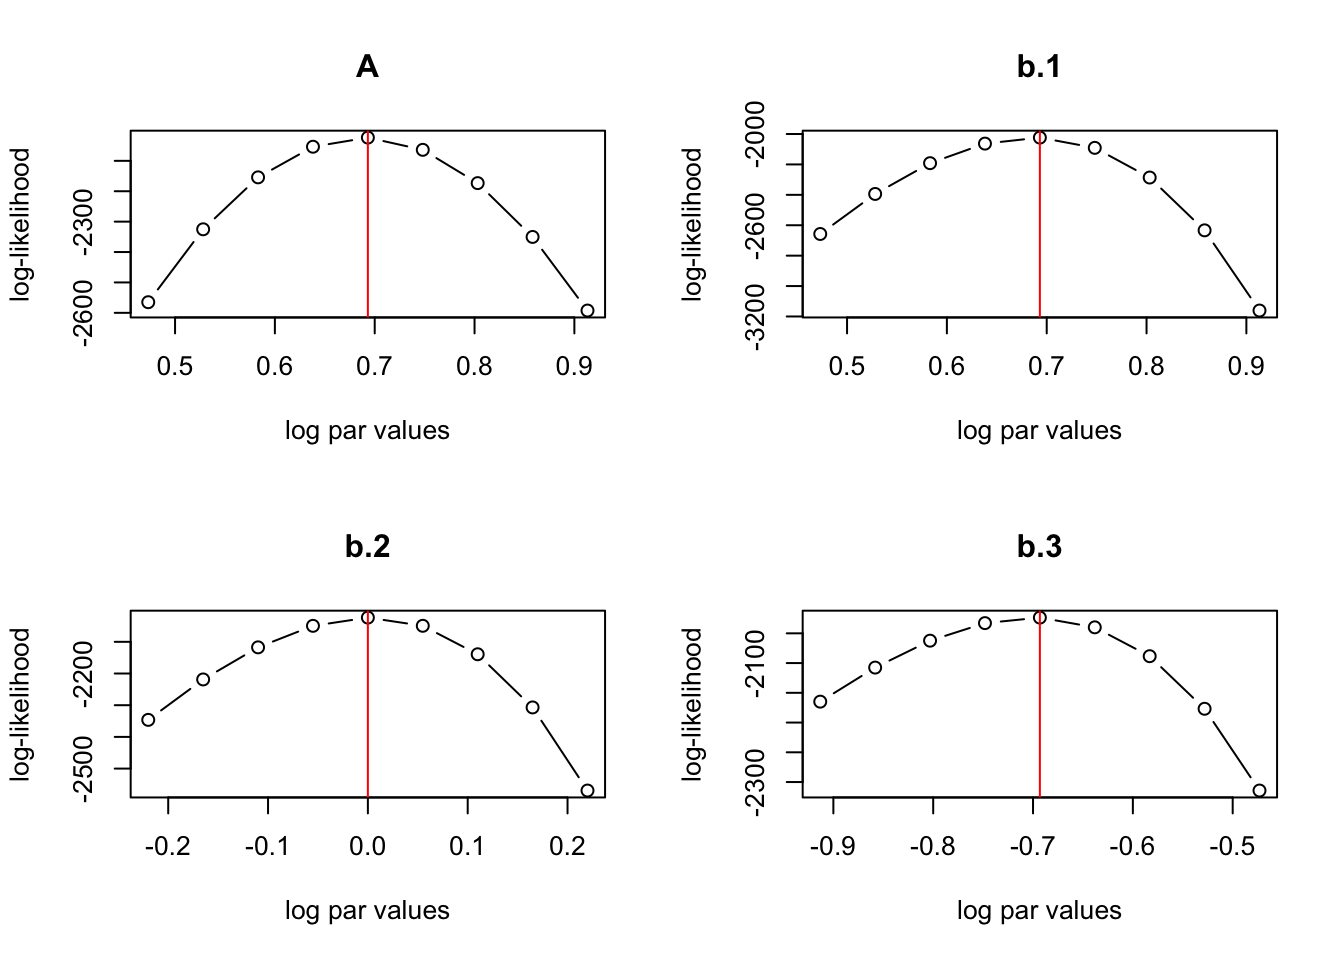
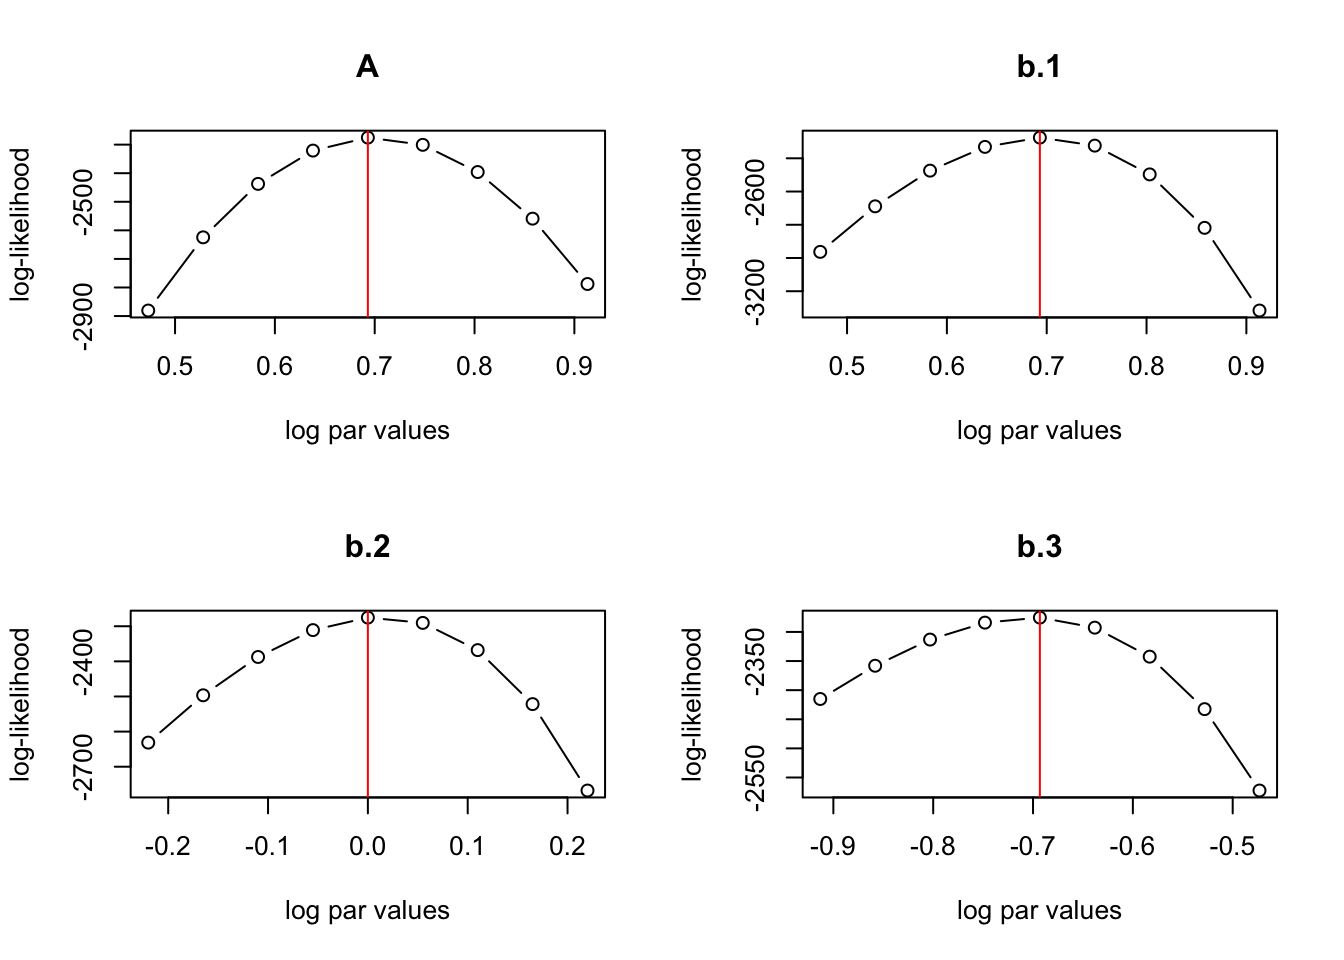
Add Reilly's suggestions sec3.9.2

diff --git a/docs/forstmannChapter.html b/docs/forstmannChapter.html
@@ -1357,7 +1357,7 @@ sampled1b &lt;-<span class="st"> </span>sampled
 <ol style="list-style-type: decimal">
 <li>Assign values to parameters of the model - these are known as the generating values. <br><b>Note</b>: ensure these are sensible values - for example in the LBA, we want the drift rate for the mismatch/error accumulator (<code>ve</code>) to be smaller than the match/correct accumulator (<code>vc</code>) and the non-decision time parameter <code>t0</code> should not be too large.</li>
 </ol>
-<div class="sourceCode"><pre class="sourceCode r"><code class="sourceCode r">dgpv &lt;-<span class="st"> </span><span class="kw">log</span>(<span class="kw">c</span>(<span class="dt">A =</span> <span class="dv">2</span>,
+<div class="sourceCode"><pre class="sourceCode r"><code class="sourceCode r">x &lt;-<span class="st"> </span><span class="kw">log</span>(<span class="kw">c</span>(<span class="dt">A =</span> <span class="dv">2</span>,
                 <span class="dt">b.1 =</span> <span class="dv">2</span>,
                 <span class="dt">b.2 =</span> <span class="dv">1</span>,
                 <span class="dt">b.3 =</span> .<span class="dv">5</span>,
@@ -1367,16 +1367,16 @@ sampled1b &lt;-<span class="st"> </span>sampled
                 )
               )</code></pre></div>
 <ol start="2" style="list-style-type: decimal">
-<li>Pass the data generating parameter values (<code>dgpv</code>) into the log-likelihood and generate data using your log-likelihood function, where <code>sample = TRUE</code>.</li>
+<li>Pass the data generating parameter values (<code>x</code>) into the log-likelihood and generate data using your log-likelihood function, where <code>sample = TRUE</code>.</li>
 </ol>
-<div class="sourceCode"><pre class="sourceCode r"><code class="sourceCode r">test_data &lt;-<span class="st"> </span><span class="kw">tw_lba_ll</span>(<span class="dt">x =</span> dgpv,
+<div class="sourceCode"><pre class="sourceCode r"><code class="sourceCode r">test_data &lt;-<span class="st"> </span><span class="kw">tw_lba_ll</span>(<span class="dt">x =</span> x,
                        <span class="dt">data =</span> data,
                        <span class="dt">sample =</span> <span class="ot">TRUE</span>
                        )</code></pre></div>
 <pre><code>## Warning in rnorm(length(ind.no)): &#39;.Random.seed[1]&#39; is not a valid integer, so
 ## ignored</code></pre>
 <ol start="3" style="list-style-type: decimal">
-<li>Generate profile plots to compare the log-likelihood of the <code>dgpv</code> parameter values against nearby values in the ‘synethetic’ data. You can write your own function for this, or use the function below.</li>
+<li>Generate profile plots to compare the log-likelihood of the <code>x</code> parameter values against nearby values in the ‘synethetic’ data. You can write your own function for this, or use the function below.</li>
 </ol>
 <p>Our plotting function takes five arguments:</p>
 <ul>
@@ -1402,7 +1402,7 @@ test_ll &lt;-<span class="st"> </span><span class="cf">function</span>(x,
                   <span class="dt">length.out =</span> n_values)
   op &lt;-<span class="st"> </span><span class="kw">par</span>(<span class="dt">mfrow =</span> dims)
   par_likelihoods &lt;-<span class="st"> </span><span class="kw">lapply</span>(<span class="kw">setNames</span>(pars, pars), <span class="cf">function</span>(p){
-    testvalues &lt;-<span class="st"> </span>sequence <span class="op">+</span><span class="st"> </span>dgpv[[p]]
+    testvalues &lt;-<span class="st"> </span>sequence <span class="op">+</span><span class="st"> </span>x[[p]]
     tmp &lt;-<span class="st"> </span><span class="kw">unlist</span>(<span class="kw">lapply</span>(testvalues, <span class="cf">function</span> (i){ 
       <span class="co">#for each test vlaue, it will apply the function where i = testvalue.</span>
     xtmp[[p]] &lt;-<span class="st"> </span>i
@@ -1416,13 +1416,13 @@ test_ll &lt;-<span class="st"> </span><span class="cf">function</span>(x,
          <span class="dt">xlab =</span> <span class="st">&quot;log par values&quot;</span>,
          <span class="dt">ylab =</span> <span class="st">&quot;log-likelihood&quot;</span>,
          ...)
-    <span class="kw">abline</span>(<span class="dt">v =</span> dgpv[[p]], <span class="dt">col =</span> <span class="st">&quot;red&quot;</span>)
+    <span class="kw">abline</span>(<span class="dt">v =</span> x[[p]], <span class="dt">col =</span> <span class="st">&quot;red&quot;</span>)
     <span class="kw">return</span>(tmp)})
   <span class="kw">par</span>(op)
   <span class="kw">return</span>(par_likelihoods)
 }</code></pre></div>
 <p>Whilst we used the trialwise log-likelihood function to generate data, we will use the fast log-likelihood function in this “parameter recovery” simulation for computational efficiency.</p>
-<div class="sourceCode"><pre class="sourceCode r"><code class="sourceCode r">ll_plots &lt;-<span class="st"> </span><span class="kw">test_ll</span>(<span class="dt">x =</span> dgpv,
+<div class="sourceCode"><pre class="sourceCode r"><code class="sourceCode r">ll_plots &lt;-<span class="st"> </span><span class="kw">test_ll</span>(<span class="dt">x =</span> x,
                     <span class="dt">n_values =</span> <span class="dv">9</span>,
                     <span class="dt">synth_data =</span> test_data,
                     <span class="dt">dims =</span> <span class="kw">c</span>(<span class="dv">2</span>, <span class="dv">2</span>),

diff --git a/docs/index.html b/docs/index.html
@@ -216,7 +216,7 @@ code > span.in { color: #60a0b0; font-weight: bold; font-style: italic; } /* Inf
 <div id="header">
 <h1 class="title">Particle Based Samplers for MCMC</h1>
 <p class="author"><em>Jon-Paul Cavallaro</em></p>
-<p class="date"><em>Wednesday 21 April 2021</em></p>
+<p class="date"><em>Wednesday 28 April 2021</em></p>
 </div>
 <div id="introduction-to-particle-based-sampler-for-mcmc" class="section level1">
 <h1><span class="header-section-number">Chapter 1</span> Introduction to particle based sampler for MCMC</h1>
